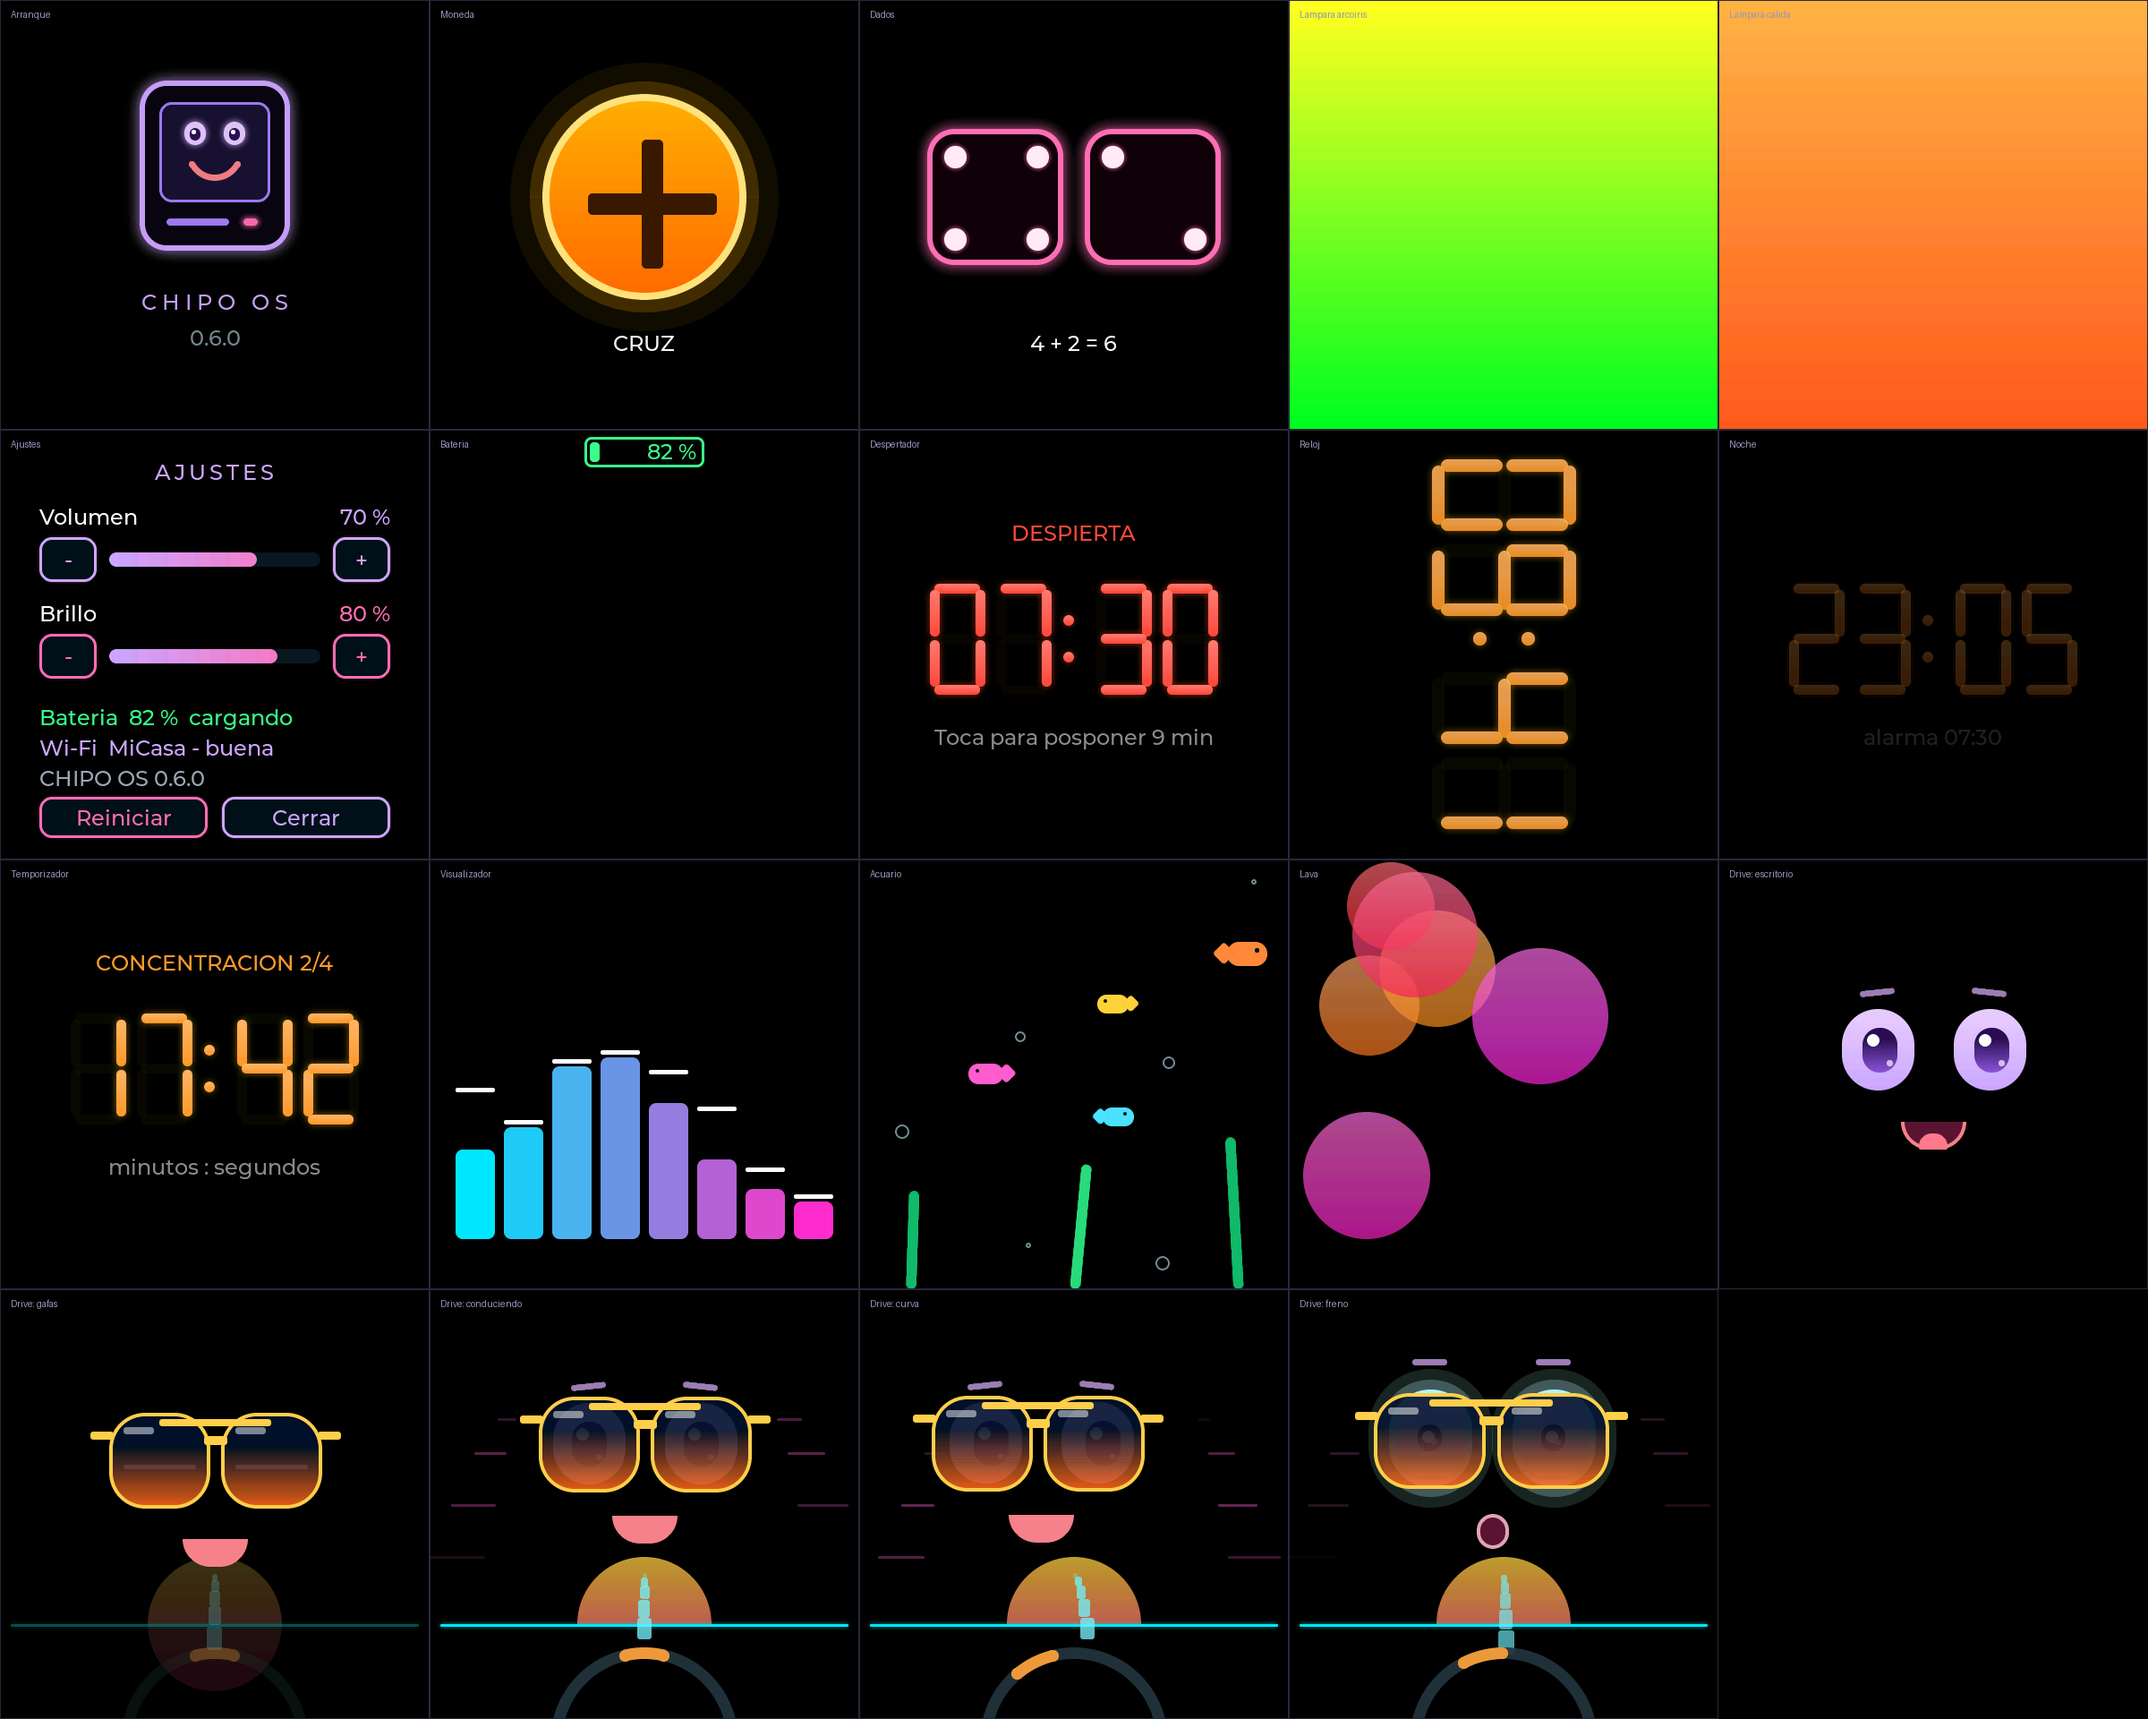
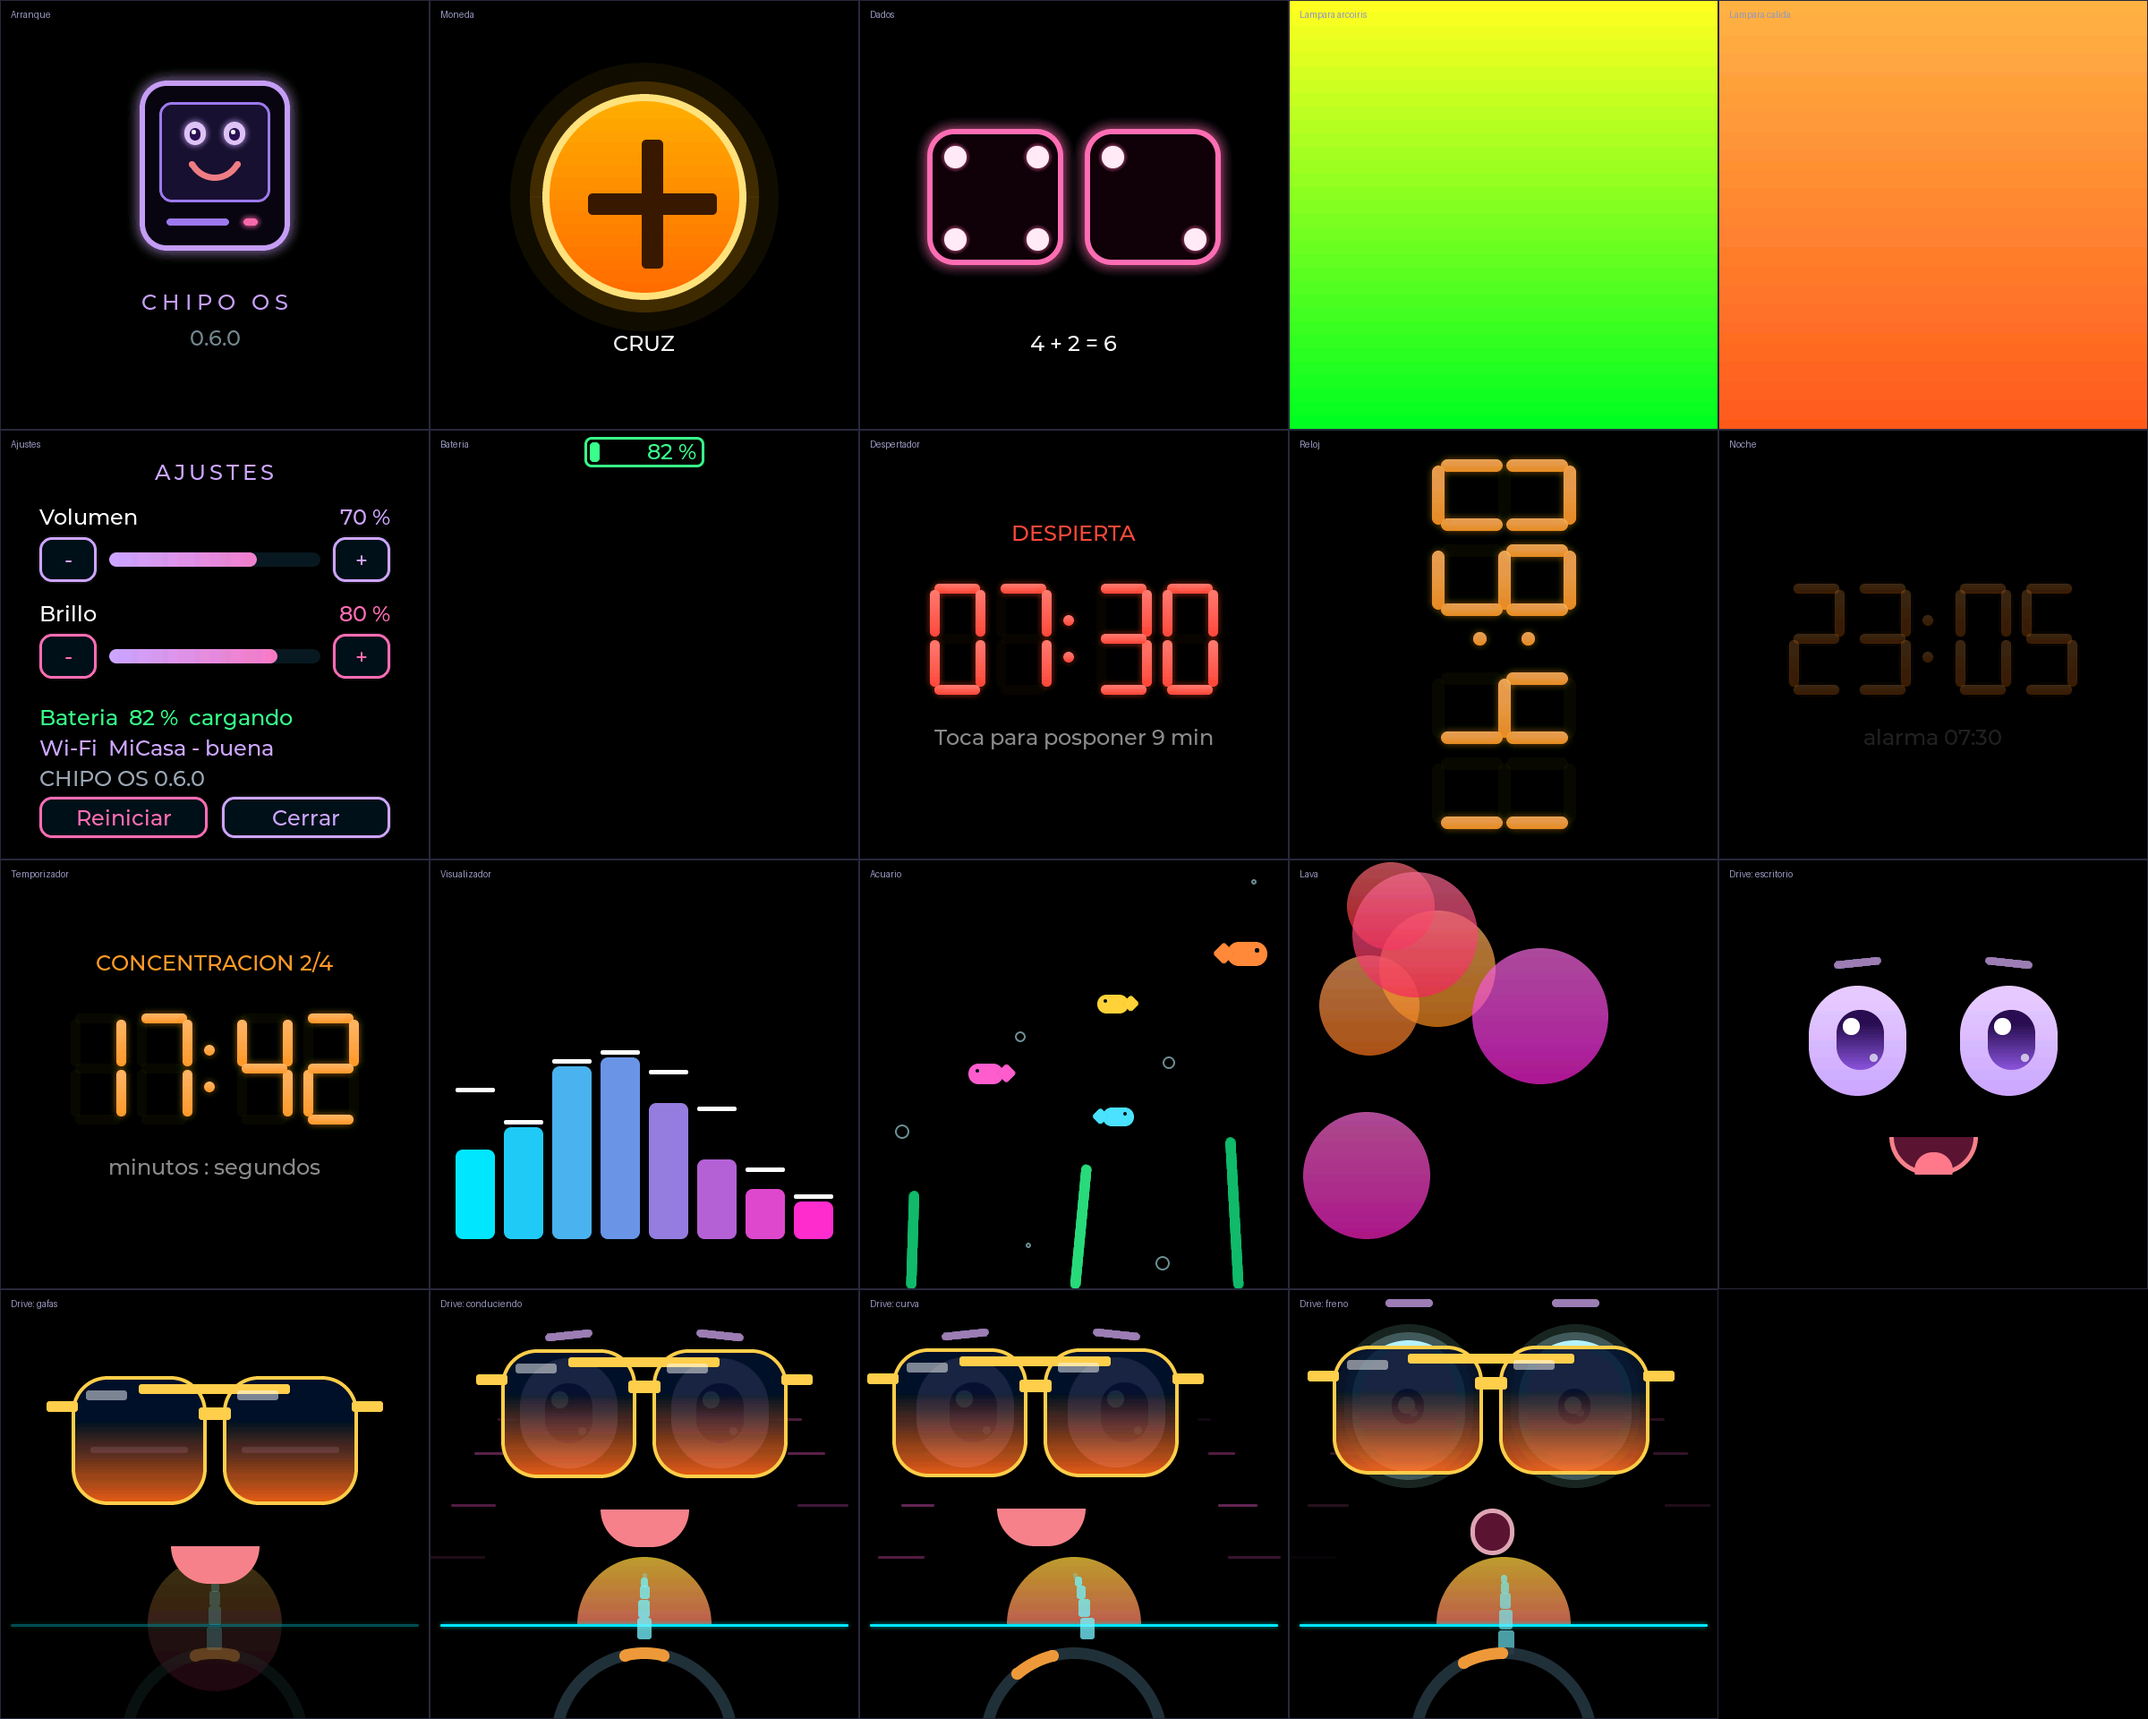
Cara más grande (58% del ancho: 1.35 en 1.8, 1.76 en 2.16), halo más suave, drive ajustado
Claude-Session: https://claude.ai/code/session_01QWb9hv5xYpQ7Tn1j11KHGt

diff --git a/components/chipo_face/chipo_face.cpp b/components/chipo_face/chipo_face.cpp
@@ -183,8 +183,10 @@ bool ChipoFace::Start(lv_obj_t* parent) {
         int32_t pw = lv_obj_get_width(parent), ph = lv_obj_get_height(parent);
         if (pw <= 0) pw = 368;
         if (ph <= 0) ph = 448;
-        fs_ = std::min(static_cast<float>(pw) / 368.0f, static_cast<float>(ph) / 340.0f);
-        fs_ = Clamp(fs_, 1.0f, 1.6f);
+        // The eyes and mouth (about 158 px wide at scale 1) fill ~58 % of the screen width: 1.35 on the 1.8"
+        // (368 px), 1.76 on the 2.16" (480 px). The 300 x 220 canvas must still fit 85 % of the height.
+        fs_ = std::min(static_cast<float>(pw) * 0.58f / 158.0f, static_cast<float>(ph) * 0.85f / 220.0f);
+        fs_ = Clamp(fs_, 1.0f, 2.0f);
     }
     // The face slides off the screen when CHIPO falls over: without this the parent (the screen) grows a grey
     // scrollbar on its edge while the face is out of bounds.
@@ -1299,7 +1301,7 @@ void ChipoFace::Step(uint32_t now_ms) {
     float sway = 0;  // the car rocks the face gently while driving
     if (drive_mode_) sway = glasses_t_ * (2.0f * std::sin(static_cast<float>(now_ms) * 0.0022f) + road_jolt_ * 3.0f);
     // Driving: the face rides a little higher so the sunset sits below the mouth, not behind it.
-    layout.face_dy = Round16(face_y_ + sway - glasses_t_ * 30.0f * fs_);
+    layout.face_dy = Round16(face_y_ + sway - glasses_t_ * 36.0f * fs_);
     UpdateGlasses(layout, dt);
     UpdateRoad(dt, now_ms);
     ApplyLayout(layout);
@@ -1677,7 +1679,7 @@ void ChipoFace::ApplyLayout(const Layout& l) {
         // A soft coloured halo that grows with the face: the shadow glow cannot be scaled up (big software
         // shadows stall the renderer), so on bigger panels this flat disc carries the state colour.
         const bool on = l.ring && l.eye_arc == 0;
-        const int g = S(6) + static_cast<int>(static_cast<float>(l.glow_w) * fs_ * 0.35f);
+        const int g = S(4) + static_cast<int>(static_cast<float>(l.glow_w) * 0.35f);  // a soft rim, not a big blob
         const int base = std::min<int>(255, l.glow_opa * 255 / 100);
         const int16_t hs[2] = {l.eye_h, l.right_eye_h};
         const int16_t ys[2] = {l.eye_y, l.right_eye_y};
@@ -1941,15 +1943,19 @@ ChipoFace::DebugInfo ChipoFace::Debug() const {
     d.face_dy = applied_.face_dy;
     d.fall_dir = fall_dir_;
     d.fell = fell_;
-    d.eye_w = applied_.eye_w;
-    d.eye_h = applied_.eye_h;
-    d.mouth_w = applied_.mouth_w;
-    d.mouth_h = applied_.mouth_h;
+    // Sizes in design pixels (scale 1, as drawn for the 368 px screen) so they mean the same on every panel;
+    // face_scale says how big they really are on this screen.
+    auto design = [this](int v) { return static_cast<int>(std::lround(static_cast<float>(v) / fs_)); };
+    d.face_scale = fs_;
+    d.eye_w = design(applied_.eye_w);
+    d.eye_h = design(applied_.eye_h);
+    d.mouth_w = design(applied_.mouth_w);
+    d.mouth_h = design(applied_.mouth_h);
     d.thinking_dots_visible = dots_visible_;
     d.tilt_calibrated = tilt_.output().calibrated;
     d.tilt_angle_deg = tilt_.output().angle_deg;
     d.emotion = shown_emotion_;
-    d.right_eye_h = applied_.right_eye_h;
+    d.right_eye_h = design(applied_.right_eye_h);
     d.glow_rgb = applied_.glow_rgb;
     d.gyro_available = gyro_.output().available;
     d.gyro_spinning = gyro_.output().spinning;

diff --git a/components/chipo_face/include/chipo_face.h b/components/chipo_face/include/chipo_face.h
@@ -85,6 +85,7 @@ public:
     struct DebugInfo {
         State shown_state;
         Mood mood;
+        float face_scale;  // geometry below is in design pixels; multiply by this for real screen pixels
         int face_dx, face_dy;
         int fall_dir;  // -1 / +1: slipping off the left / right side, 0: not falling
         bool fell;     // tilted past the fall angle

diff --git a/docs/CHIPO_FACE.md b/docs/CHIPO_FACE.md
@@ -175,3 +175,6 @@ El color del estado (escuchando, error, amor…) sigue tiñendo ojos y boca. Ima
   apagan en orden inverso, de derecha a izquierda, con los dos puntos al final (~0,4 s). Solo cambia la opacidad
   de cada pieza (sin capas), barato para el ESP32. Al levantar CHIPO el reloj se apaga todavía girado y después
   la vista vuelve a vertical.
+- Cara más grande: ojos y boca ocupan ~58 % del ancho de la pantalla (escala 1,35 en la 1,8" y 1,76 en la 2,16").
+  El halo no crece con la escala (borde suave, no mancha). En drive la cara sube lo justo para que la boca quede
+  sobre el sol. `Debug()` informa los tamaños en píxeles de diseño y `face_scale` aparte.
